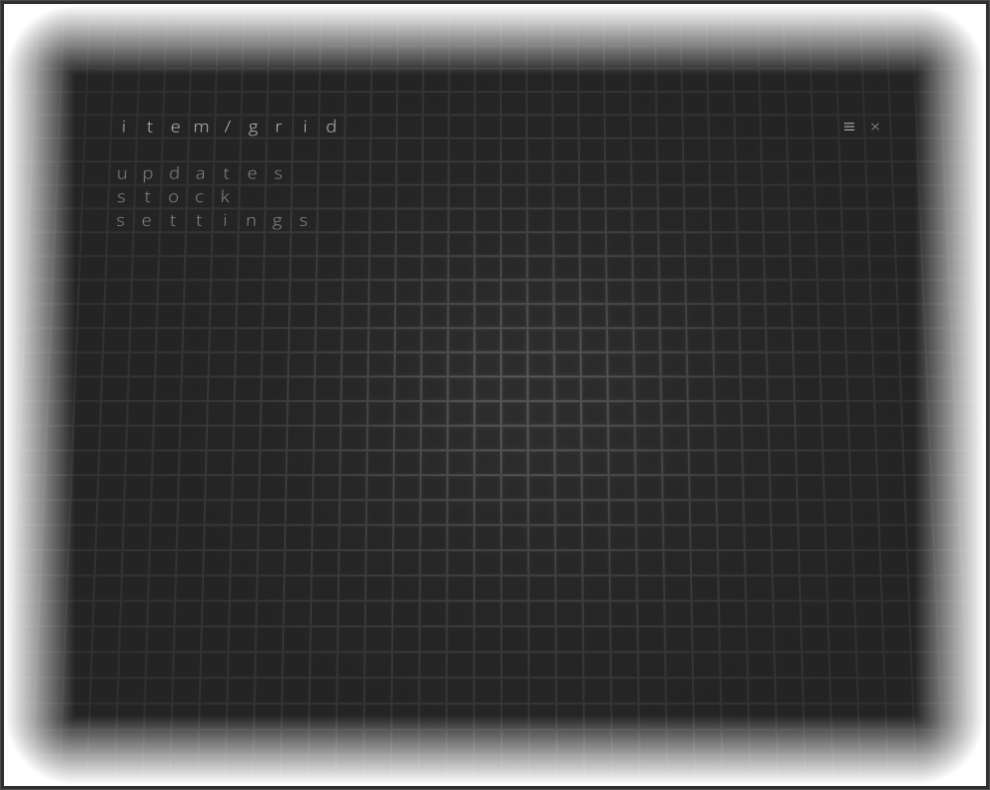
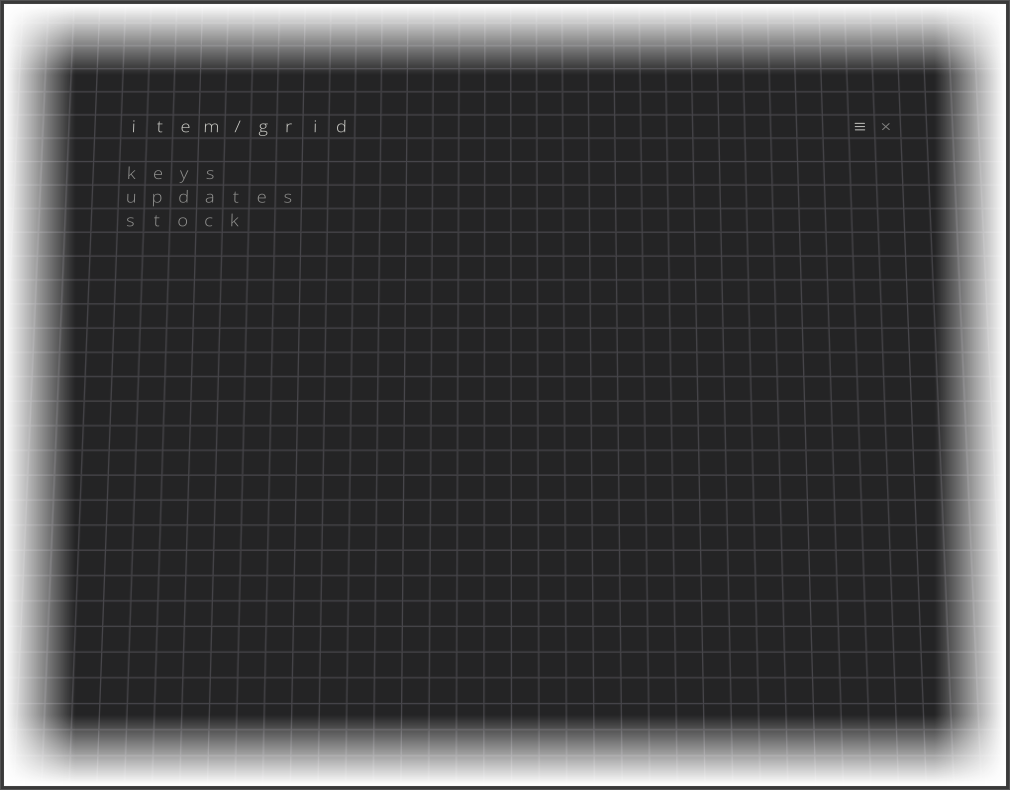
README for 0.3.0: item-recovery, the keys and wifi commands, the word's cubes as the table's look, the menu (keys, updates, stock); new window and menu pictures

diff --git a/README.md b/README.md
@@ -6,7 +6,9 @@ is doing, installs and updates [item](https://github.com/agentsco-lab/item)
 and the port, reads the phone's logs, takes screenshots, backs the phone up
 and - by the safety rules learned on this device, as code - RAM-boots and
 writes images to it, installs the whole system from a release image, and
-takes the phone back to stock Android and to Linux again. The command is
+takes the phone back to stock Android and to Linux again - through a
+recovery of its own, its steps on the phone's screen. A phone it installs
+comes up already on the computer's Wi-Fi, in its time zone. The command is
 `itemgrid`; the window is item/grid. The release images (`item-duo1-…` in
 [item's releases](https://github.com/agentsco-lab/item/releases): the
 image, the kernel, the recovery, a manifest) go in
@@ -15,8 +17,8 @@ image, the kernel, the recovery, a manifest) go in
 **Until 1.0, item/grid is an experiment**, as item is. It writes to the
 phone's partitions, so the rules below are checks in its core that cannot be
 gone around, not notes to remember - but it has been used on one phone, the
-owner's, from one Linux computer. Keep your own backups of `boot_a`, `boot_b` and `misc` from TWRP
-before you let it write anything.
+owner's, from one Linux computer. Keep your own backups of `boot_a`,
+`boot_b` and `misc` before you let it write anything.
 
 ## What it does
 
@@ -33,31 +35,39 @@ before you let it write anything.
 | `slots`, `confirm`, `ramboot` | the two boot slots and their state; a boot image tried from RAM first, by the rules |
 | `install` | erase and install item from a release image (`--keep-files` keeps home, Wi-Fi, the time zone, the PIN) |
 | `stock`, `android` | Microsoft's packages and their boot chain; the way to stock Android and back |
+| `keys` | the phone's keyring from the computer: `set NAME` (from stdin), `set-all FILE`, `list`, `forget NAME` - item/grid keeps no copy |
+| `wifi` | the Wi-Fi this computer is on, its time zone and the zone's city for the weather, given to the phone (the password never shown) |
 
 **The window** shows the Duo drawn as it is held - the hinge and the
 gravity from the phone's sensors, its screen live from item's mirror - on a
 table of light, and a few lines on how it is: item's version, the battery,
-the link. The menu is three lines drawn
-on the same table: *updates* (item's version and build; the update),
-*stock* (the way back to the phone's Android), *settings* (the table's
-look: the lines' colour and width, the grid, the light, the lamp under the
-phone); Developer Mode adds a fourth with the slots, images from RAM, every
-kind of backup and the logs. What is not on the table yet is the command
-line's.
+the link. The menu is lines drawn on the same table: *keys* (the phone's
+keyring), *updates* (item's version and build; the update), *stock* (the
+way back to the phone's Android); Developer Mode adds one with the
+slots, images from RAM, every kind of backup and the logs. The table's look
+is in the word itself: three of its cubes turn the grid's colour, strength
+and width round on a click, and its `/` turns *item/grid* into *edge/lit*,
+where they turn the rim and the light. What is not on the table yet is the
+command line's.
+
+**item-recovery** (`crates/recovery`) takes TWRP's place: the port's kernel
+with a static Rust init and adb daemon, busybox and mke2fs, 19 MB. item/grid
+RAM-boots it, never writes it; its screen on both panels is the table's
+grid - the colour, strength and width the window has - with the step at
+work, its progress and the phone's item id. It comes with the system image;
+`tools/build-recovery.sh` builds it here.
 
 | | |
 |---|---|
-| ![the window: the Duo on the table, open as a book, its screen live](docs/img/itemgrid-window.png) | ![the menu: updates, stock, settings](docs/img/itemgrid-menu.png) |
-| The window: the Duo as it is held, its lock screen live from item's mirror; beside it item's version, the battery, the cable. | The menu, drawn on the table as the rest. |
-| ![settings: the table's look](docs/img/itemgrid-settings.png) | |
-| Settings: the table's look - the lines' colour, the grid, the rim, the light, the lamp. | |
+| ![the window: the Duo on the table, open as a book, its screen live](docs/img/itemgrid-window.png) | ![the menu: keys, updates, stock](docs/img/itemgrid-menu.png) |
+| The window: the Duo as it is held, its screen live from item's mirror; beside it its item id, item's version, the battery, the cable. | The menu, drawn on the table as the rest; the phone put away under it. |
 
 `itemgrid status`, the same phone:
 
 ```
 Phone:     Linux (172.16.42.1)
-System:    Droidian 102 (2026-08-30), kernel 4.14-190-perf-microsoft-surfaceduo, up 8 h 18 min
-item:      0.2.1 (built 2026-10-09 06:18), running
+System:    Droidian 102 (2026-10-21), kernel 4.14-190-perf-microsoft-surfaceduo, up 0 h 19 min
+item:      0.3.0 (built 2026-10-25 20:08), running
 Port:      0.22.0, sensorfw 0.14.8+itemae3
 Fingers:   1 enrolled
 Battery:   100%, discharging, 26 °C
@@ -93,12 +103,13 @@ Rust, GTK4 and libadwaita.
 | `crates/gui` | `itemgrid-gui`, the window: the table, the phone drawn as it is held, the night and day |
 | `crates/motion` | `duo-motion`, run on the phone over ssh while the window follows it: the hinge, the lid and the gravity from sensorfw |
 | `crates/mcp` | `itemgrid-mcp`, an MCP server that lets Claude Code look at the window and try it with a real pointer, on a screen of its own |
+| `crates/recovery` | `item-recovery`, the recovery item/grid RAM-boots: PID 1, the adb daemon, the screen on both panels (DRM) |
 | `crates/install` | `itemgrid-install`, the installer for a computer without item/grid - Windows first: item on a Duo from stock Android, in one go, with adb, fastboot and the USB alone (no ssh); the release and the tools fetched by itself |
-| `tools/` | `package-deb.sh`, `install-local.sh`, `fetch-fonts.sh`, `package-windows.sh` |
+| `tools/` | `package-deb.sh`, `install-local.sh`, `fetch-fonts.sh`, `package-windows.sh`, `build-recovery.sh` |
 
 The phone is reached over ssh on the USB link (172.16.42.1), or over Wi-Fi
-once the cable has shown its key; fastboot and TWRP (adb) for the modes
-where Linux is not running. The installer alone does without ssh: it knows
+once the cable has shown its key; fastboot and item-recovery (adb) for the
+modes where Linux is not running. The installer alone does without ssh: it knows
 Linux came up by the phone's USB network gadget, and writes the boot chain
 from TWRP after the owner's forced restart (the parking brake parks it in
 fastboot) - the same rules, one more step by hand.
